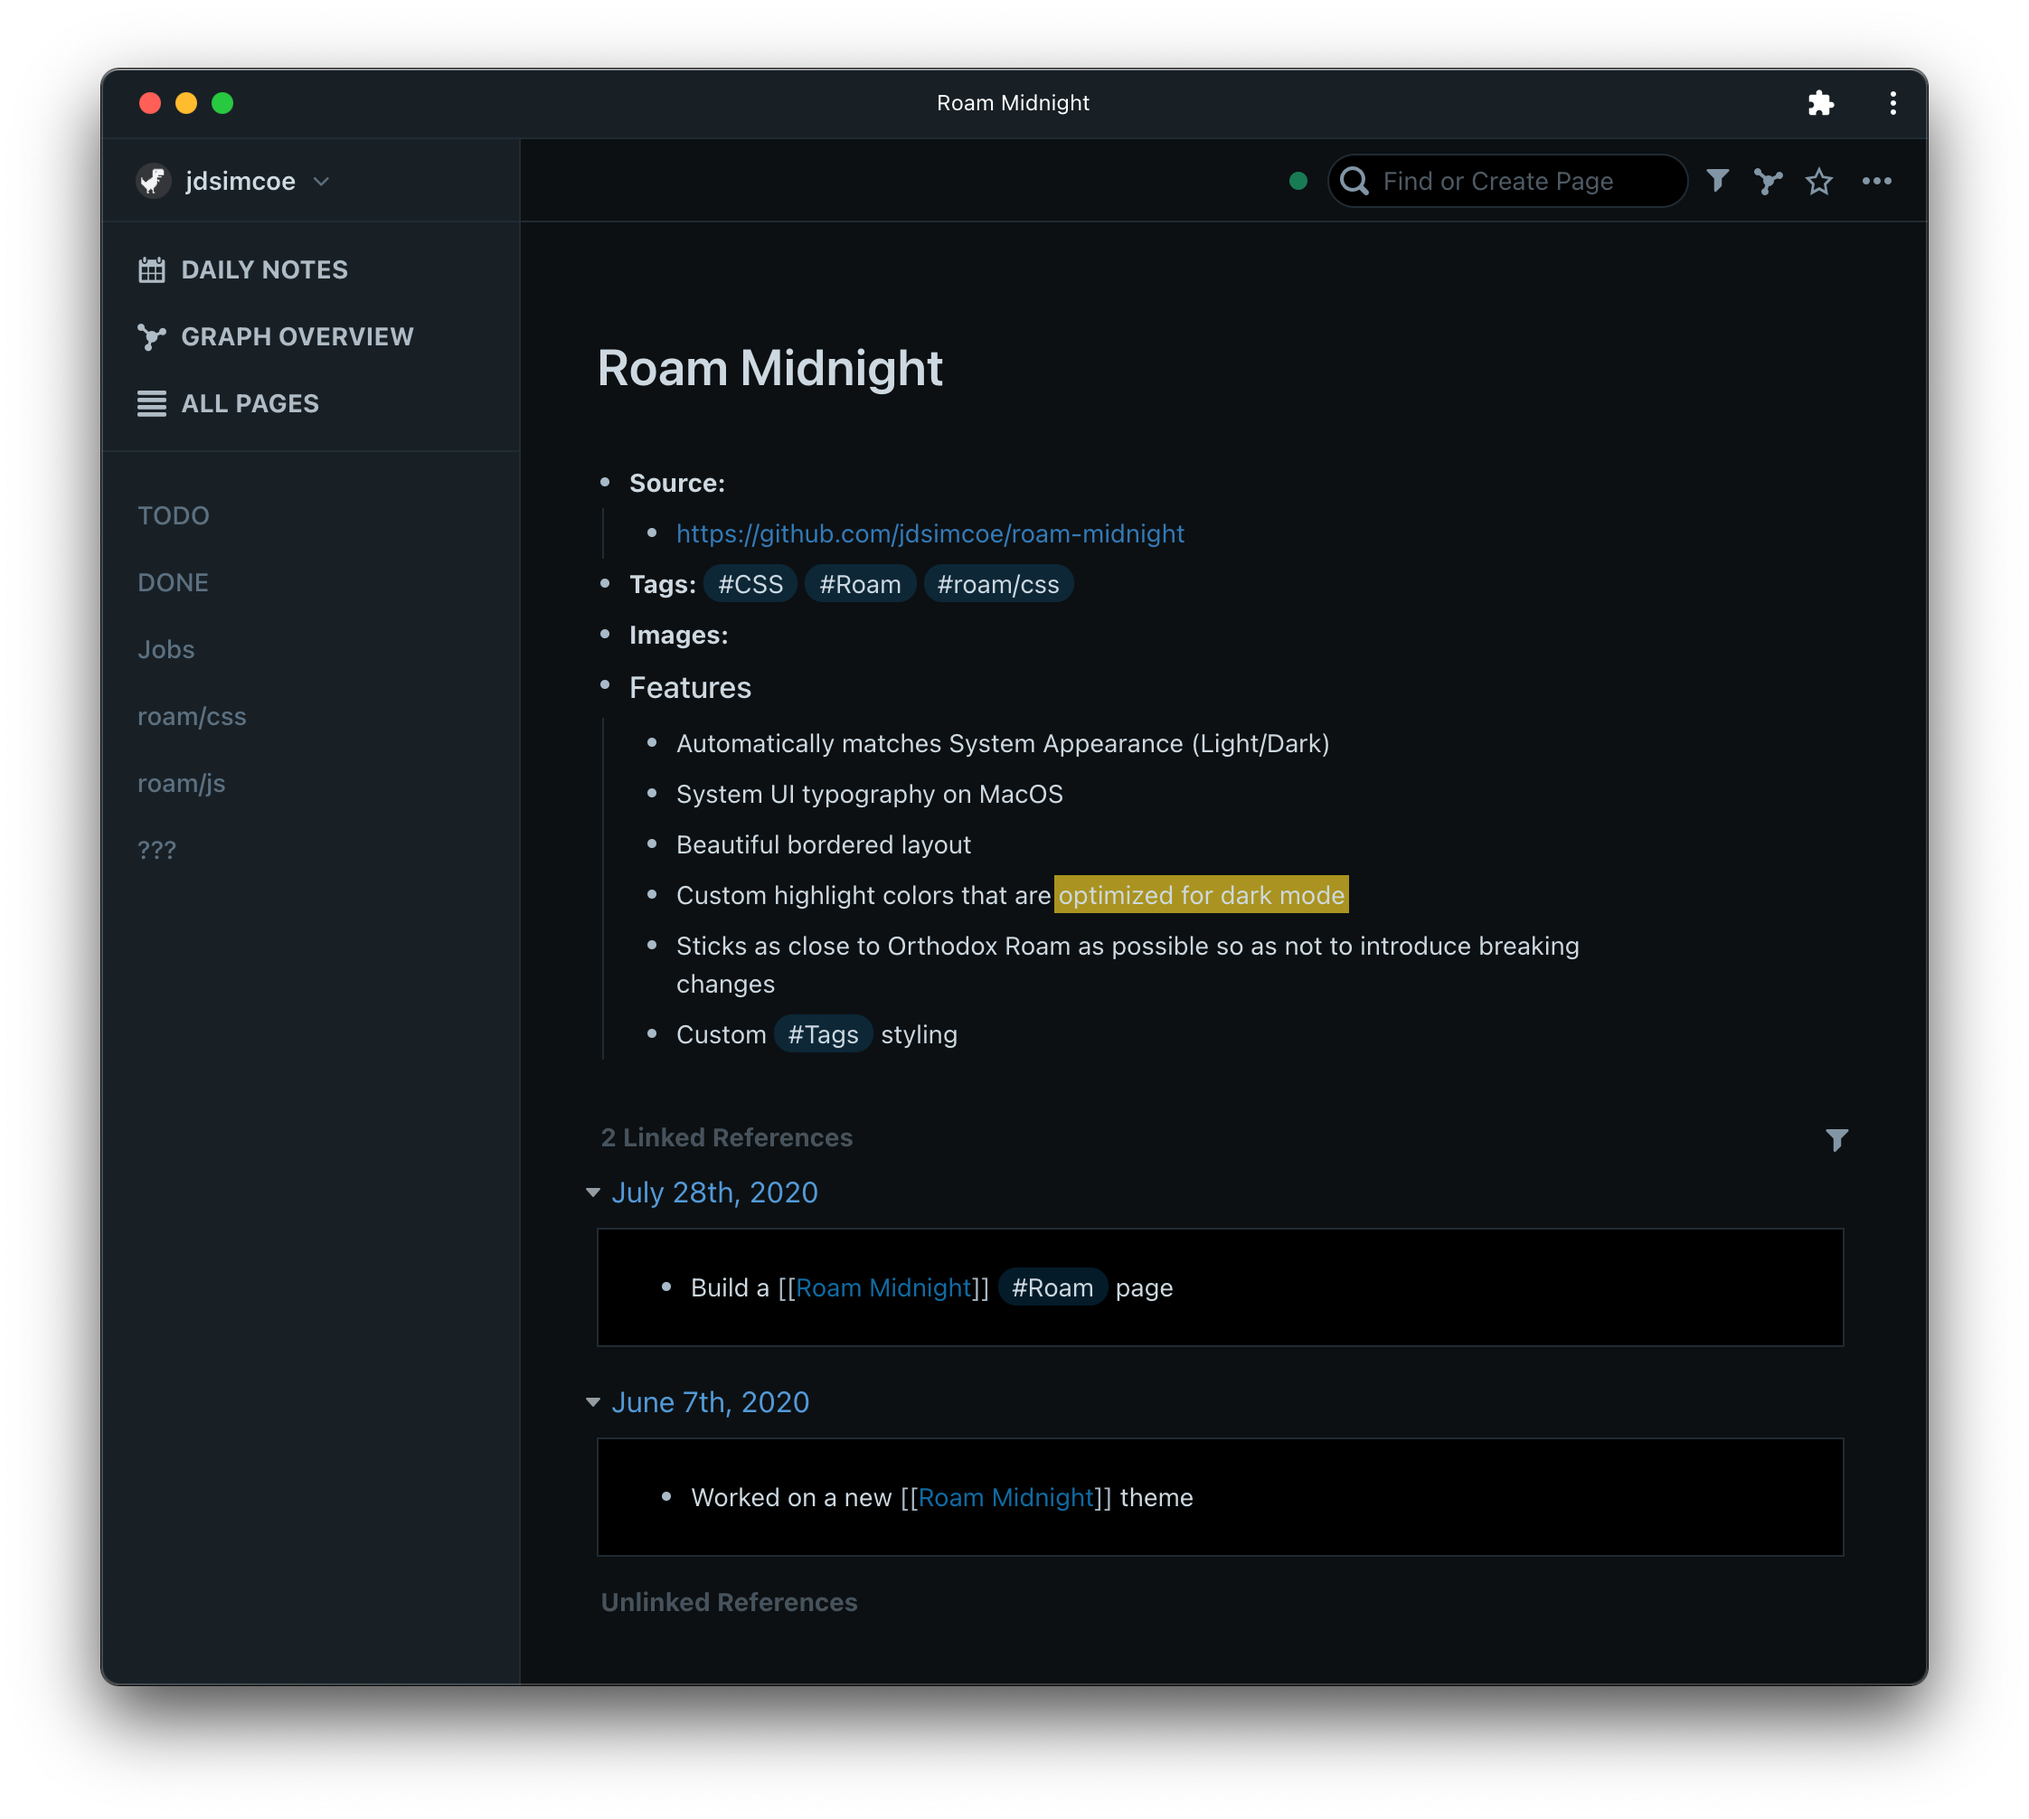
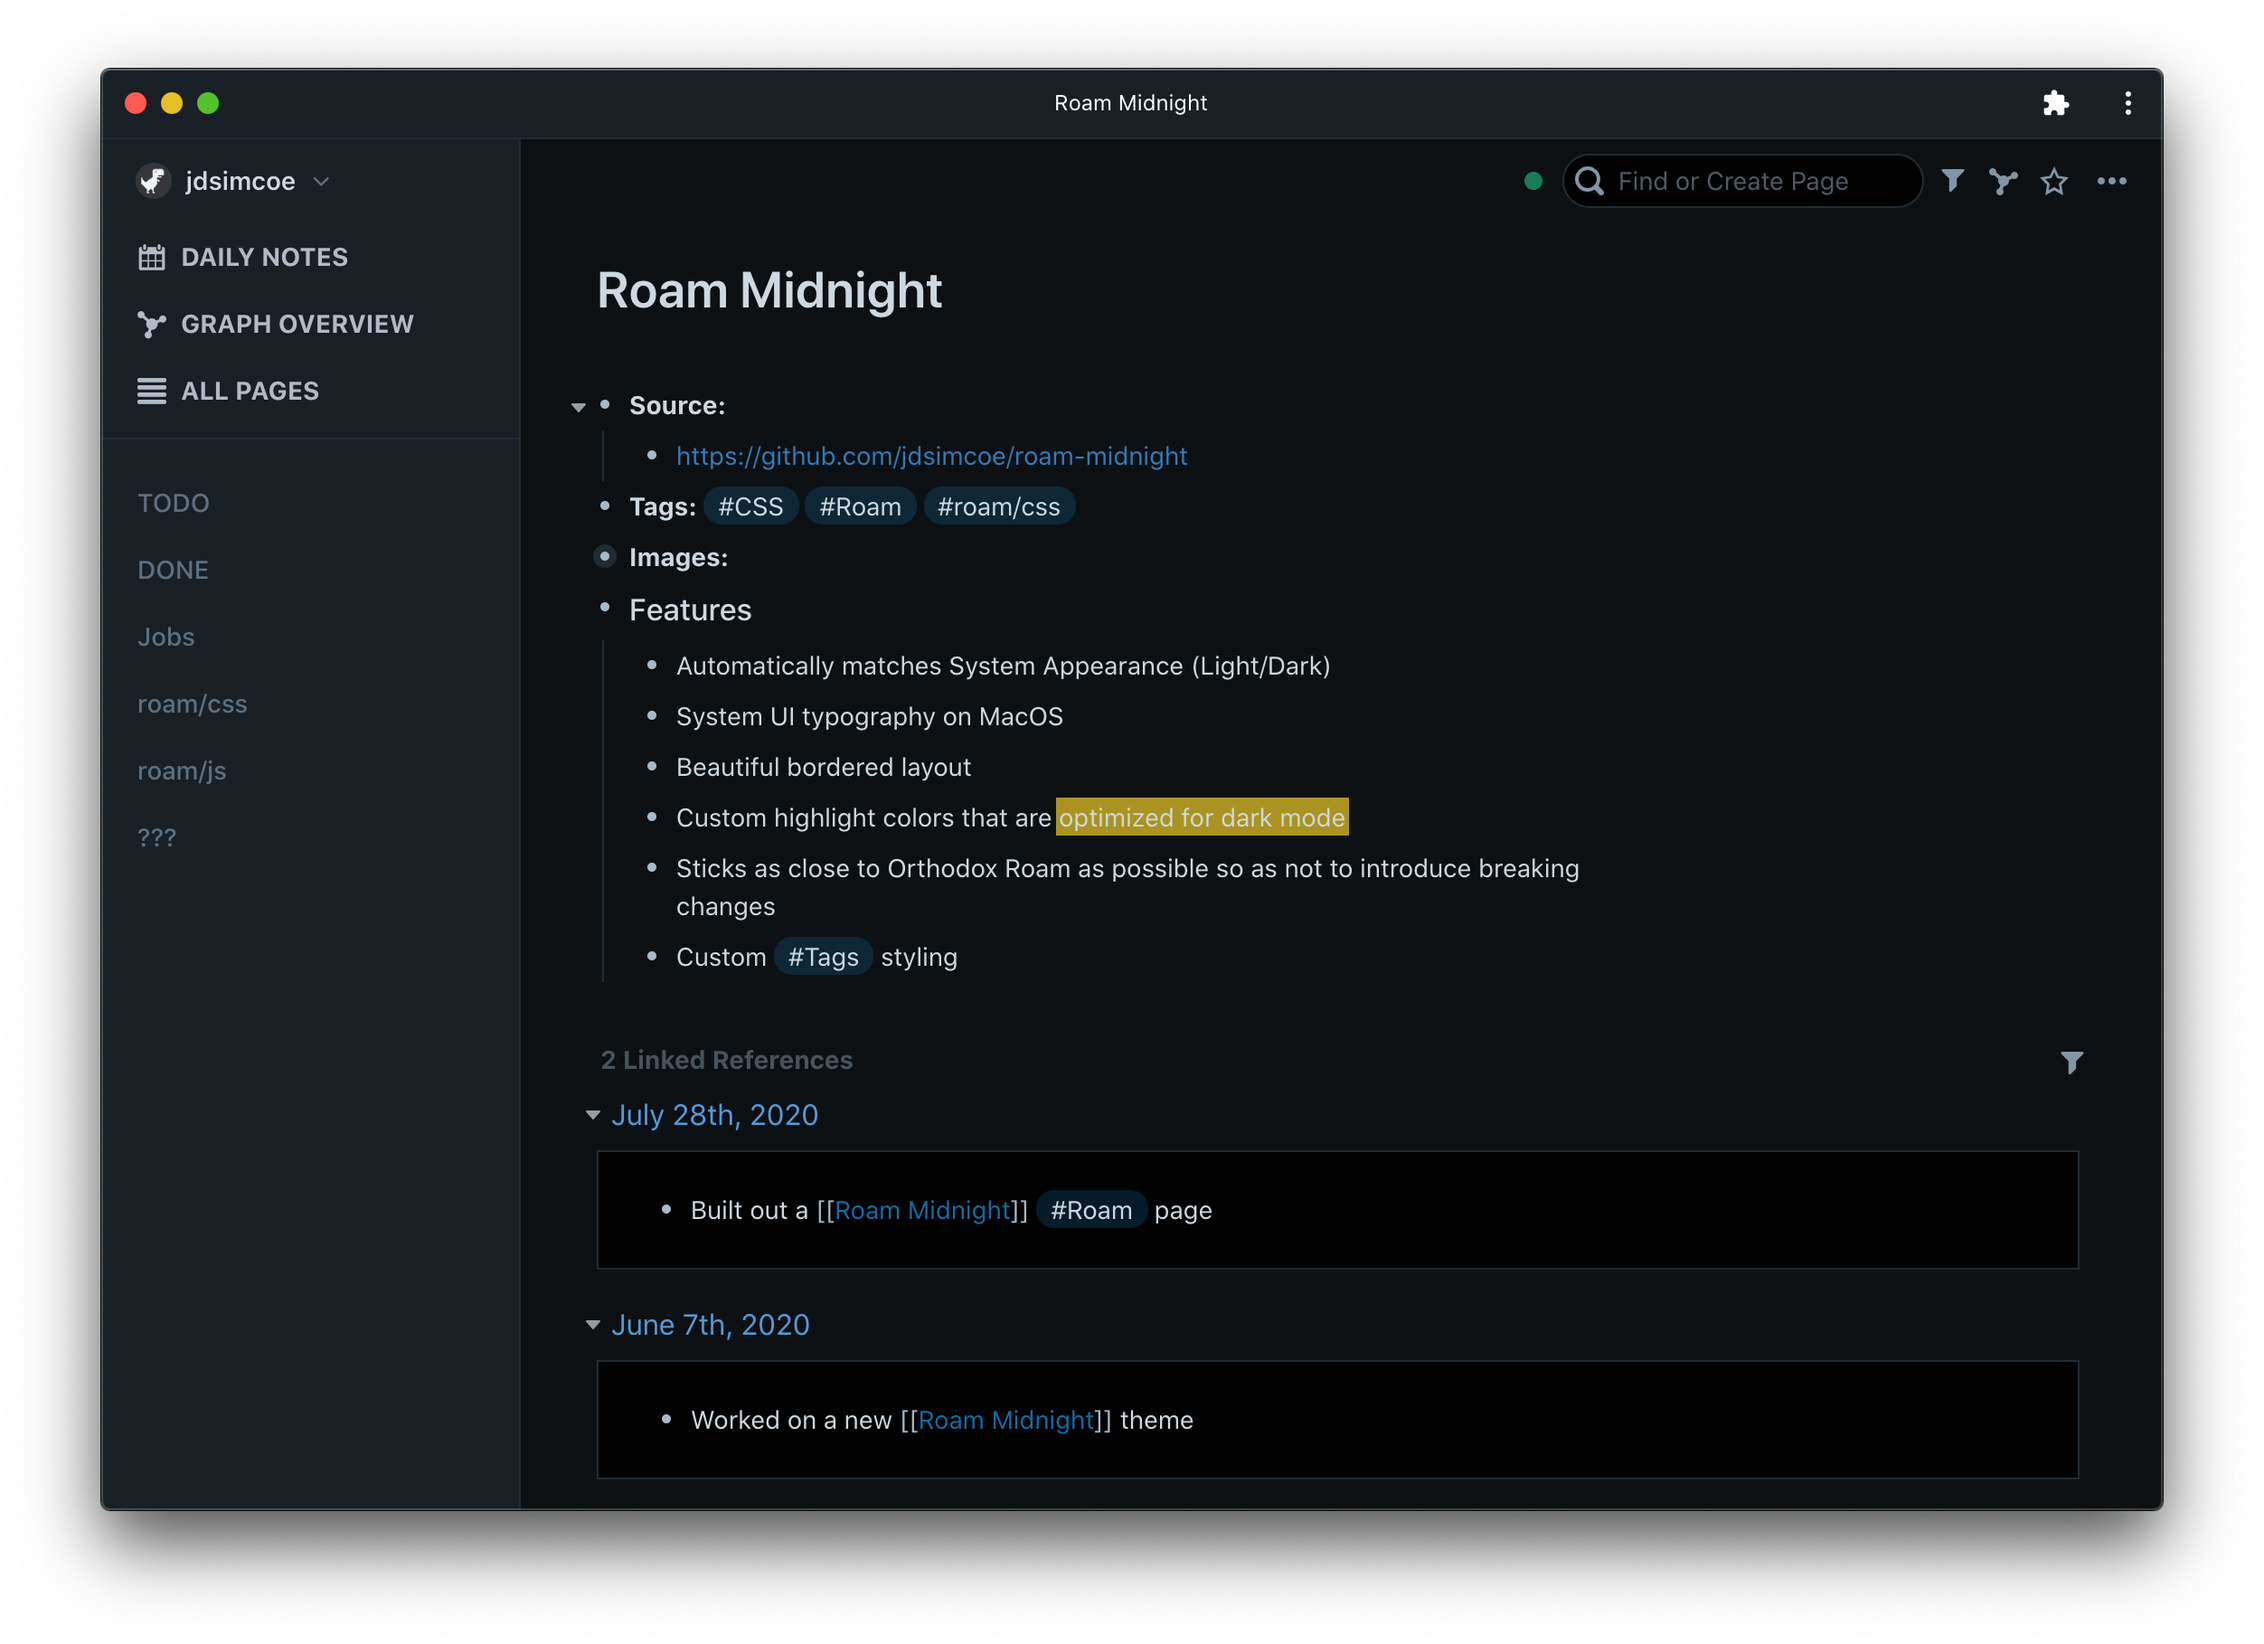
Style improvements

diff --git a/styles.css b/styles.css
@@ -1,6 +1,6 @@
 :root {
   --font-sans: system-ui, 'Inter', 'Inter var', sans-serif;
-  --font-mono: ui-monospace, 'SF Mono', SFMono-Regular, monospace;
+  --font-mono: ui-monospace, 'IBM Plex Mono', monospace;
 }
 
 body, input, textarea, select, button, div {
@@ -47,21 +47,21 @@ code, pre, q, tt {
   padding-right: 42px !important;
 }
 
-.roam-body .roam-app .roam-sidebar-container {
-  border-right: 1px solid #202B33 !important;
+.roam-article .roam-log-container .rm-reference-main {
+  padding-left: 0 !important;
+  padding-right: 0 !important;
 }
 
-.roam-body .roam-app .roam-sidebar-container .top-row {
-  margin-bottom: 0.5rem !important;
-  box-shadow: inset 0 -1px 0 #202B33 !important;
+.roam-body .roam-app .roam-sidebar-container {
+  border-right: 1px solid #202B33 !important;
 }
 
 .starred-pages-wrapper {
   border-top: 1px solid #202B33 !important;
 }
 
-.roam-center {
-  border-top: 1px solid #CDD8E0 !important;
+.roam-body .roam-app .roam-sidebar-container .roam-sidebar-content .starred-pages-wrapper {
+  margin-top: 16px !important;
 }
 
 span sub + button {
